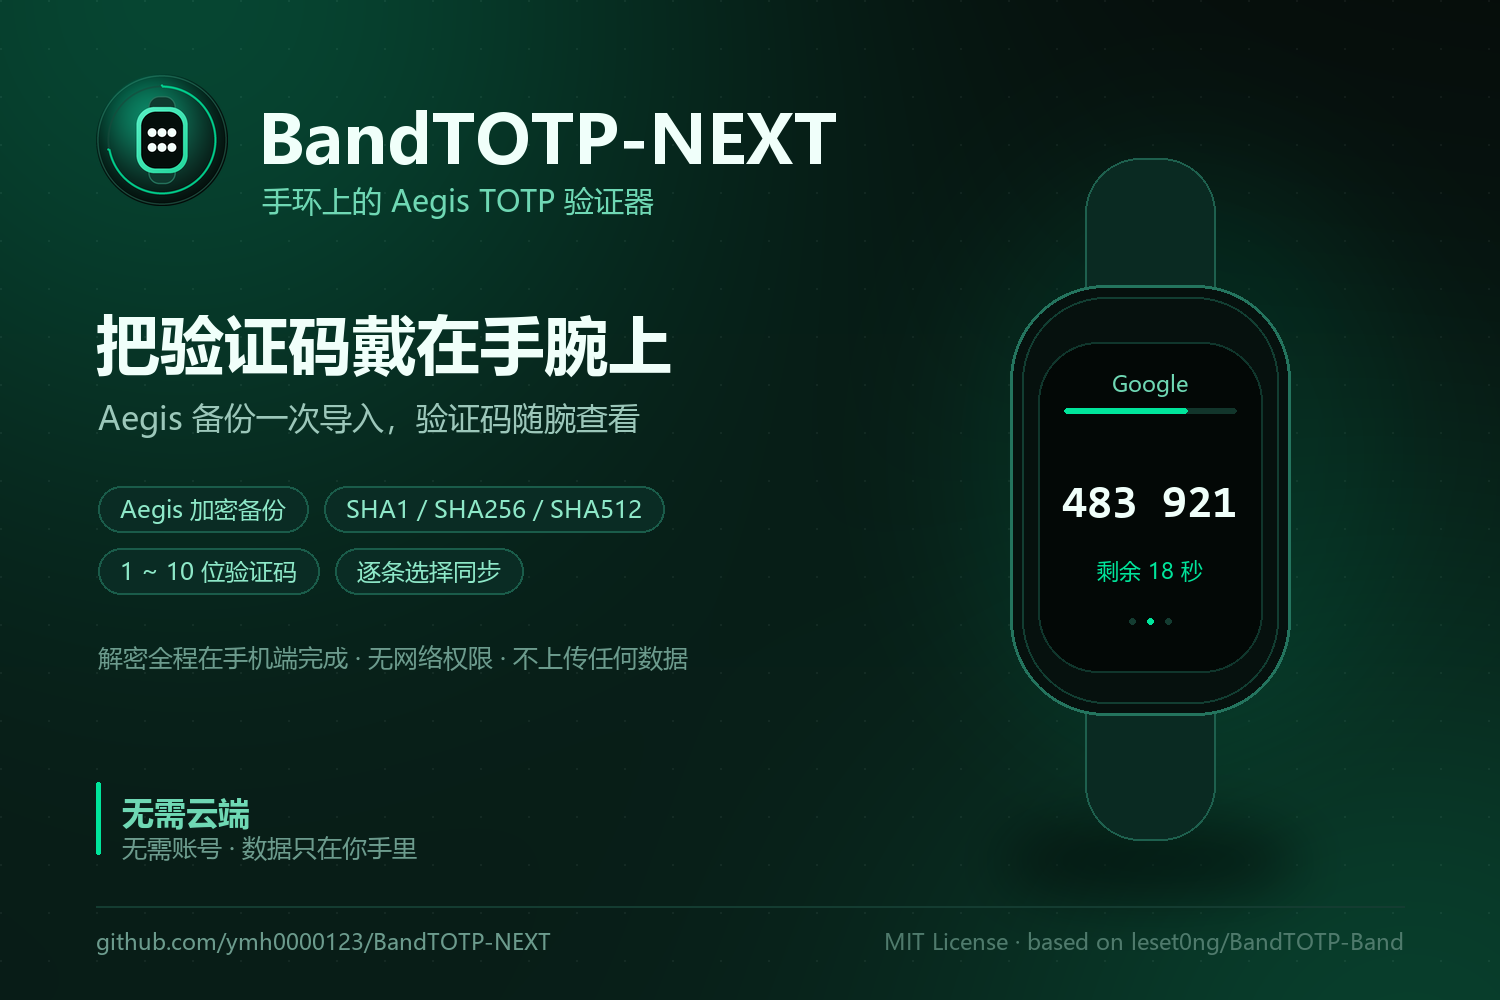
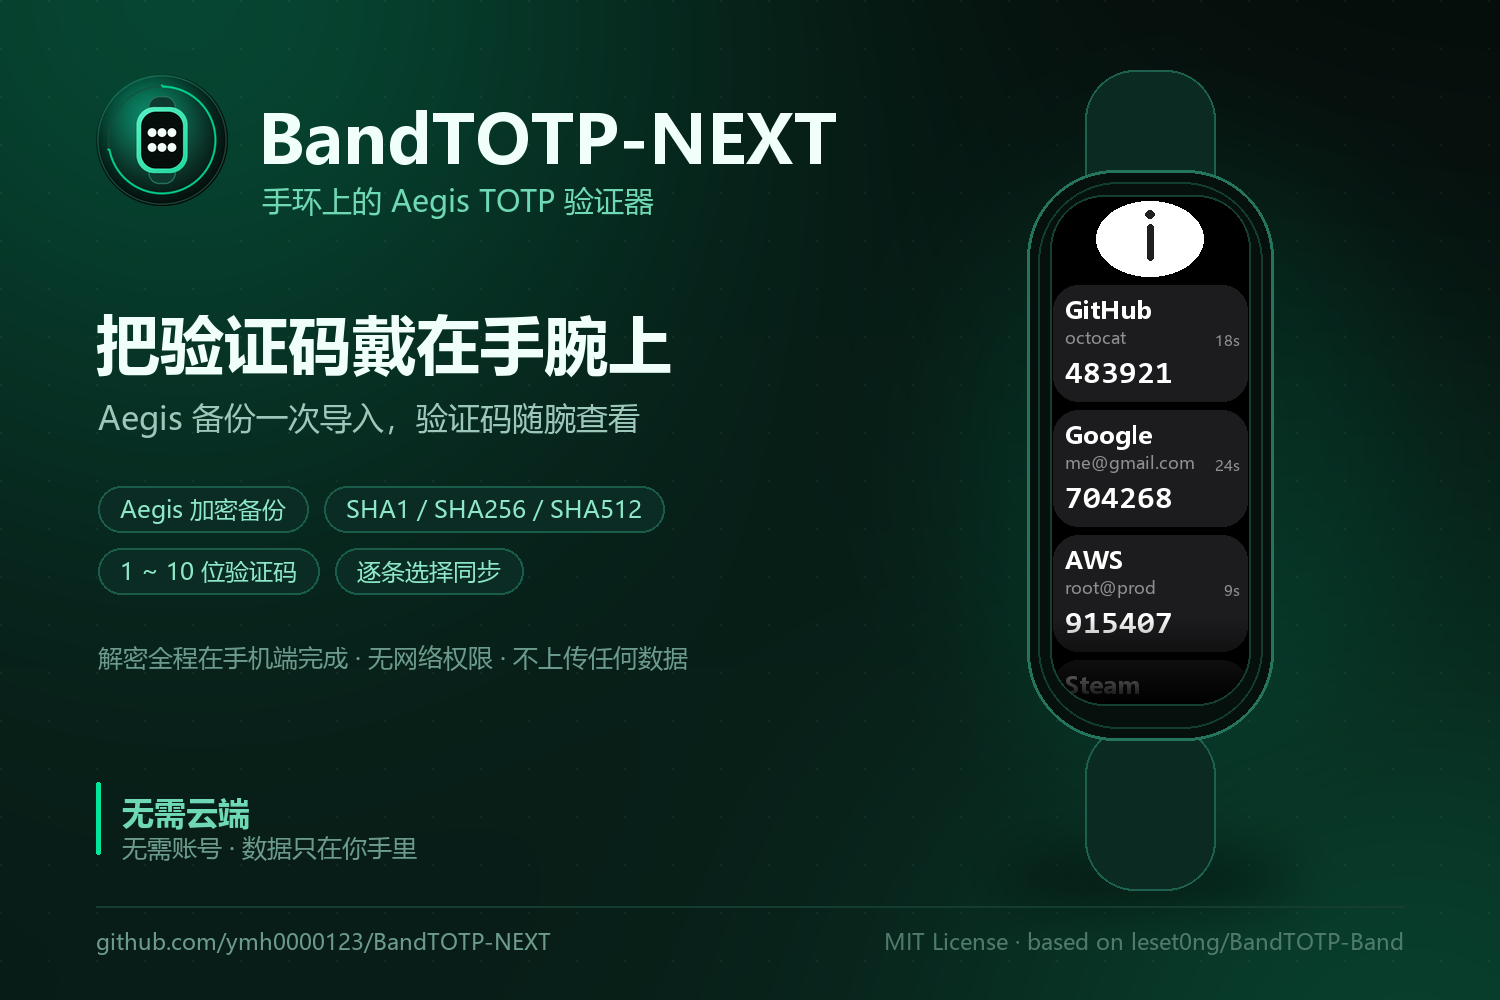
fix: render real watch list UI on cover

Changed region(s): [[0.6747, 0.155, 0.8587, 0.744]]

diff --git a/tools/generate-brand-assets.py b/tools/generate-brand-assets.py
@@ -235,21 +235,27 @@ def render_cover(width: int = 1500, height: int = 1000) -> Image.Image:
     d.text((122, 790), "无需云端", font=f_quote, fill=(111, 216, 180))
     d.text((122, 830), "无需账号 · 数据只在你手里", font=f_note, fill=TEXT_DIM)
 
-    # 手环主视觉
-    cx, cy = 1150, 500
+    # 手环主视觉：屏幕按手环端真实列表页布局绘制
+    cx = 1150
+    sw, sh = 200, 510
+    s = sw / 192.0
+    screen_top = 195
+    screen_left = cx - sw / 2
+    screen_bottom = screen_top + sh
+
     shadow = Image.new("RGBA", (width, height), (0, 0, 0, 0))
     sd = ImageDraw.Draw(shadow)
-    sd.ellipse([cx - 150, 820, cx + 150, 900], fill=(0, 0, 0, 110))
-    shadow = shadow.filter(ImageFilter.GaussianBlur(26))
+    sd.ellipse([cx - 150, 855, cx + 150, 902], fill=(0, 0, 0, 120))
+    shadow = shadow.filter(ImageFilter.GaussianBlur(24))
     cover = Image.alpha_composite(cover, shadow)
 
     d = ImageDraw.Draw(cover)
 
     # 表带
-    for top in (158, 608):
+    for top in (70, 725):
         d.rounded_rectangle(
-            [cx - 65, top, cx + 65, top + 232],
-            radius=55,
+            [cx - 65, top, cx + 65, top + 165],
+            radius=50,
             fill=(10, 42, 34, 255),
             outline=(30, 96, 78, 255),
             width=2,
@@ -257,38 +263,84 @@ def render_cover(width: int = 1500, height: int = 1000) -> Image.Image:
 
     # 表体
     d.rounded_rectangle(
-        [cx - 140, 285, cx + 140, 715],
-        radius=95,
+        [cx - 123, 170, cx + 123, 740],
+        radius=88,
         fill=(6, 17, 14, 255),
         outline=(36, 116, 94, 255),
         width=3,
     )
     d.rounded_rectangle(
-        [cx - 128, 297, cx + 128, 703],
-        radius=84,
+        [cx - 112, 182, cx + 112, 728],
+        radius=80,
         outline=(18, 62, 50, 255),
         width=2,
     )
 
-    # 屏幕
-    screen = [cx - 112, 342, cx + 112, 672]
-    d.rounded_rectangle(screen, radius=60, fill=(3, 8, 6, 255), outline=(16, 54, 44, 255), width=2)
+    # 屏幕内容：按 192x490 的设计稿 1:1 还原列表布局
+    scr = Image.new("RGBA", (sw, sh), (0, 0, 0, 255))
+    sd = ImageDraw.Draw(scr)
 
-    d.text((cx, 374), "Google", font=f_small, fill=(111, 216, 180), anchor="mt")
+    def X(v: float) -> float:
+        return (v - 96) * s + sw / 2
 
-    # 倒计时进度条
-    bar_x0, bar_x1 = cx - 86, cx + 86
-    d.rounded_rectangle([bar_x0, 408, bar_x1, 413], radius=3, fill=(18, 53, 43, 255))
-    d.rounded_rectangle([bar_x0, 408, bar_x0 + int((bar_x1 - bar_x0) * 0.72), 413], radius=3, fill=(*ACCENT, 255))
+    def Y(v: float) -> float:
+        return v * s
 
-    d.text((cx, 505), "483 921", font=f_mono, fill=TEXT_MAIN, anchor="mm")
-    d.text((cx, 560), "剩余 18 秒", font=f_small, fill=(*ACCENT, 255), anchor="mt")
+    f_card_name = font(FONT_BOLD, round(23 * s))
+    f_card_usr = font(FONT_REGULAR, round(16 * s))
+    f_card_remain = font(FONT_REGULAR, round(14 * s))
+    f_card_otp = font(FONT_MONO, round(31 * s))
 
-    # 底部三个状态点
-    for i in range(3):
-        px = cx - 18 + i * 18
-        color = (*ACCENT, 255) if i == 1 else (20, 60, 49, 255)
-        d.ellipse([px - 3, 618, px + 3, 624], fill=color)
+    cards = [
+        ("GitHub", "octocat", "483921", "18s"),
+        ("Google", "me@gmail.com", "704268", "24s"),
+        ("AWS", "root@prod", "915407", "9s"),
+        ("Steam", "player_one", "K7M2Q", "27s"),
+    ]
+    for i, (name, usr, otp, remain) in enumerate(cards):
+        top = Y(86 + i * 120)
+        sd.rounded_rectangle(
+            [X(3), top, X(189), top + Y(112)],
+            radius=Y(24),
+            fill=(28, 28, 30, 255),
+        )
+        sd.text((X(14), top + Y(8)), name, font=f_card_name, fill=(255, 255, 255, 255))
+        sd.text((X(14), top + Y(40)), usr, font=f_card_usr, fill=(142, 142, 147, 255))
+        sd.text(
+            (X(182), top + Y(44)),
+            remain,
+            font=f_card_remain,
+            fill=(142, 142, 147, 255),
+            anchor="ra",
+        )
+        sd.text((X(14), top + Y(71)), otp, font=f_card_otp, fill=(255, 255, 255, 255))
+
+    # 顶部信息按钮：白色椭圆 + 深色 i
+    info_box = [X(45), Y(6), X(147), Y(78)]
+    sd.ellipse(info_box, fill=(255, 255, 255, 255))
+    icx = (info_box[0] + info_box[2]) / 2
+    sd.ellipse([icx - 4 * s, Y(15), icx + 4 * s, Y(23)], fill=(32, 32, 32, 255))
+    sd.rounded_rectangle([icx - 3 * s, Y(28), icx + 3 * s, Y(62)], radius=3 * s, fill=(32, 32, 32, 255))
+
+    # 底部渐变遮罩
+    fade = Image.new("RGBA", (sw, sh), (0, 0, 0, 0))
+    fd = ImageDraw.Draw(fade)
+    fade_h = int(Y(86))
+    for i in range(fade_h):
+        alpha = int(255 * (i / max(1, fade_h - 1)))
+        fd.line([(0, sh - fade_h + i), (sw, sh - fade_h + i)], fill=(0, 0, 0, alpha))
+    scr = Image.alpha_composite(scr, fade)
+
+    mask = Image.new("L", (sw, sh), 0)
+    ImageDraw.Draw(mask).rounded_rectangle([0, 0, sw - 1, sh - 1], radius=54, fill=255)
+    cover.paste(scr, (int(screen_left), screen_top), mask)
+    d = ImageDraw.Draw(cover)
+    d.rounded_rectangle(
+        [screen_left, screen_top, screen_left + sw, screen_bottom],
+        radius=54,
+        outline=(20, 64, 52, 255),
+        width=2,
+    )
 
     # 页脚
     d.line([96, 906, width - 96, 906], fill=(20, 60, 49, 255), width=2)
